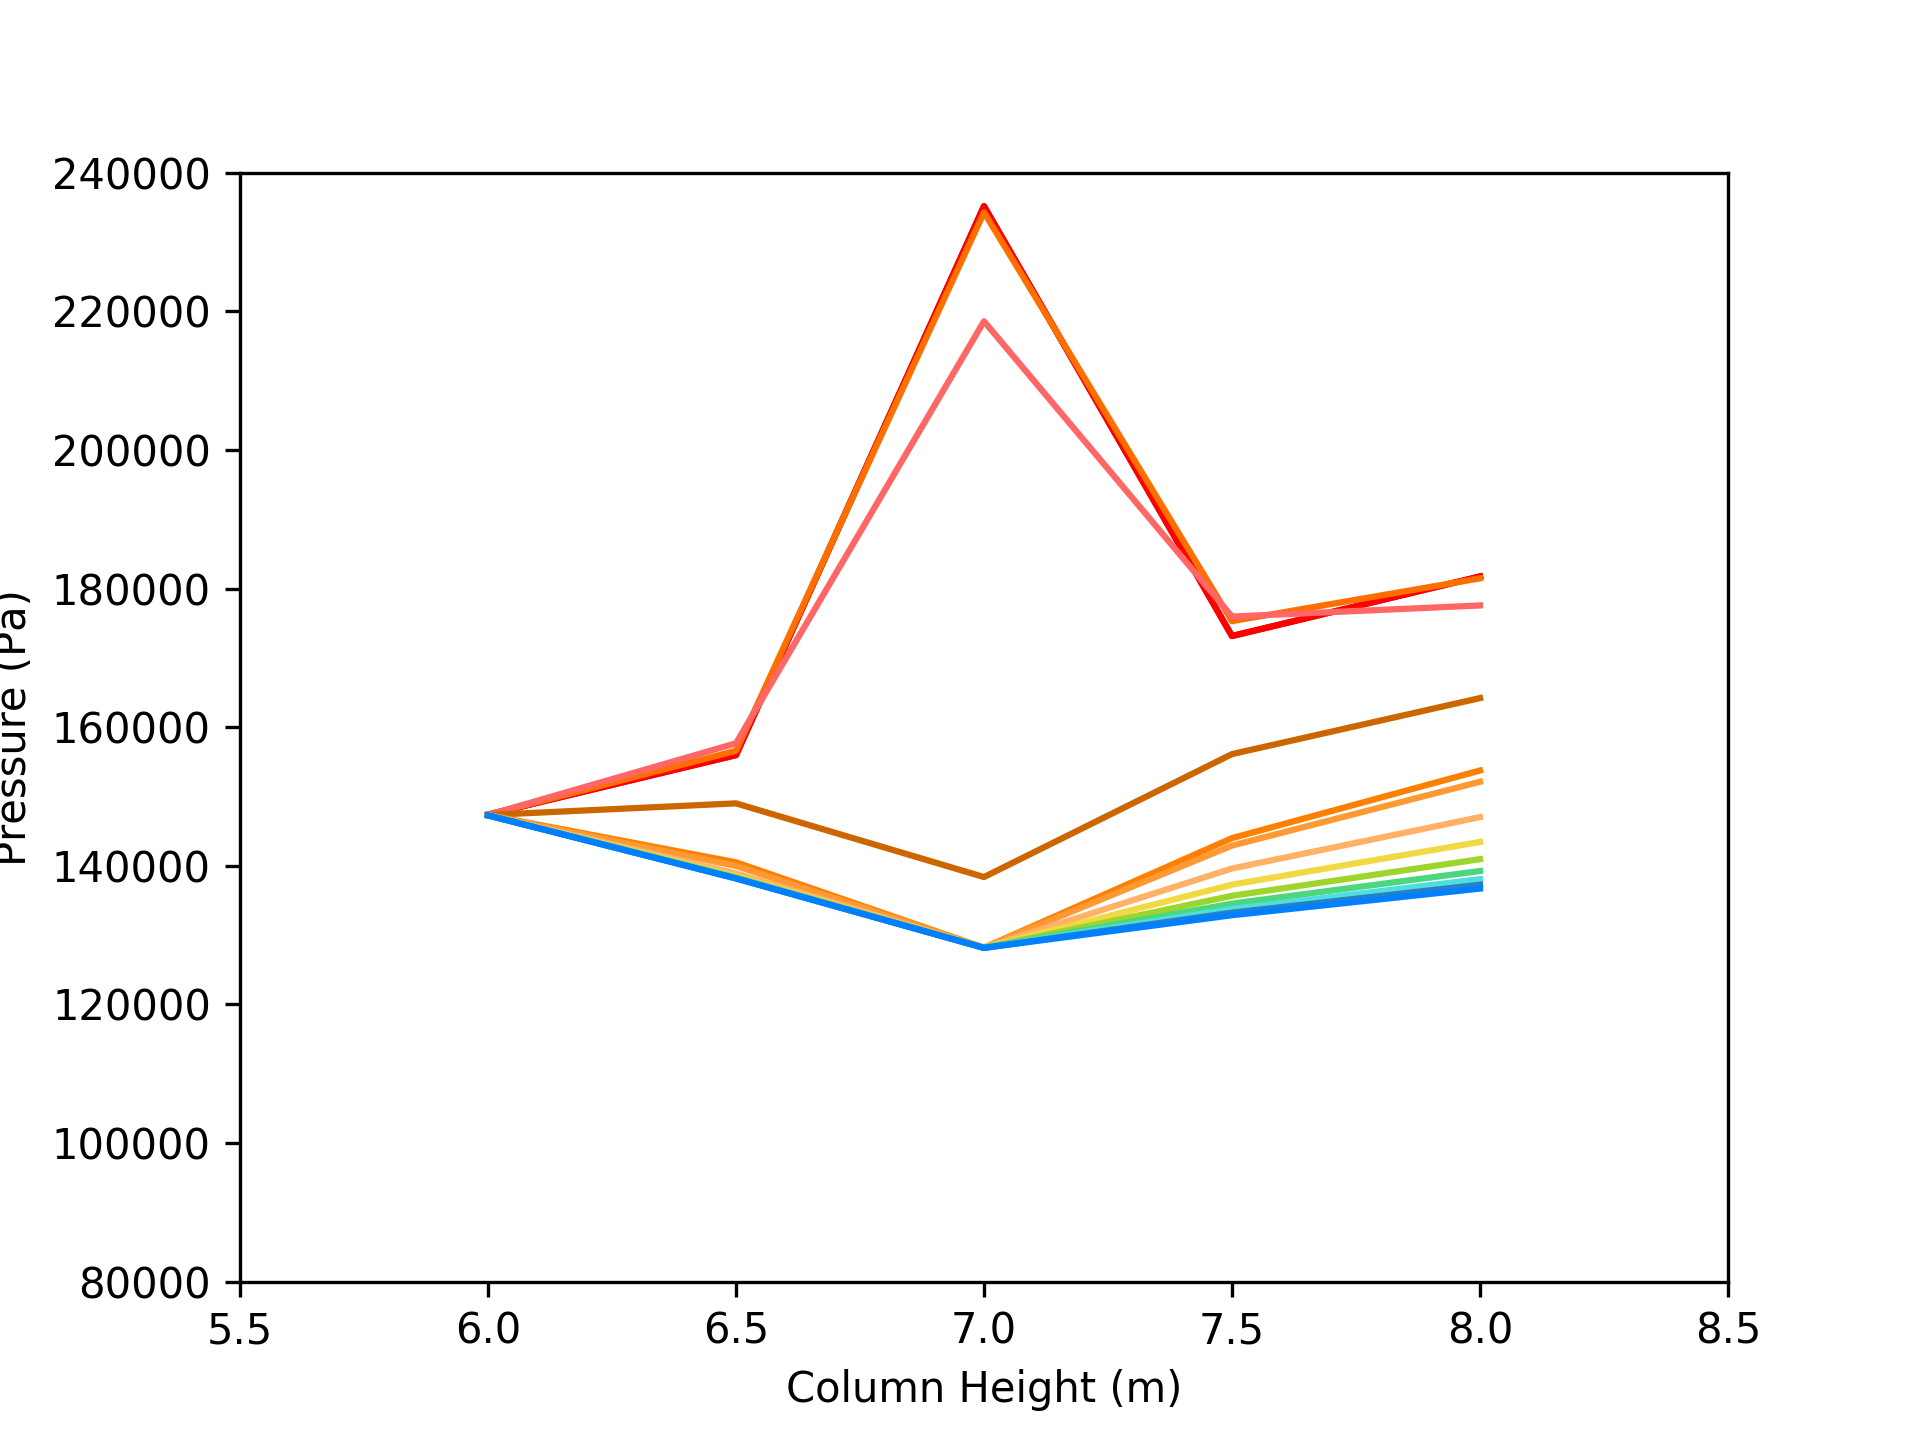
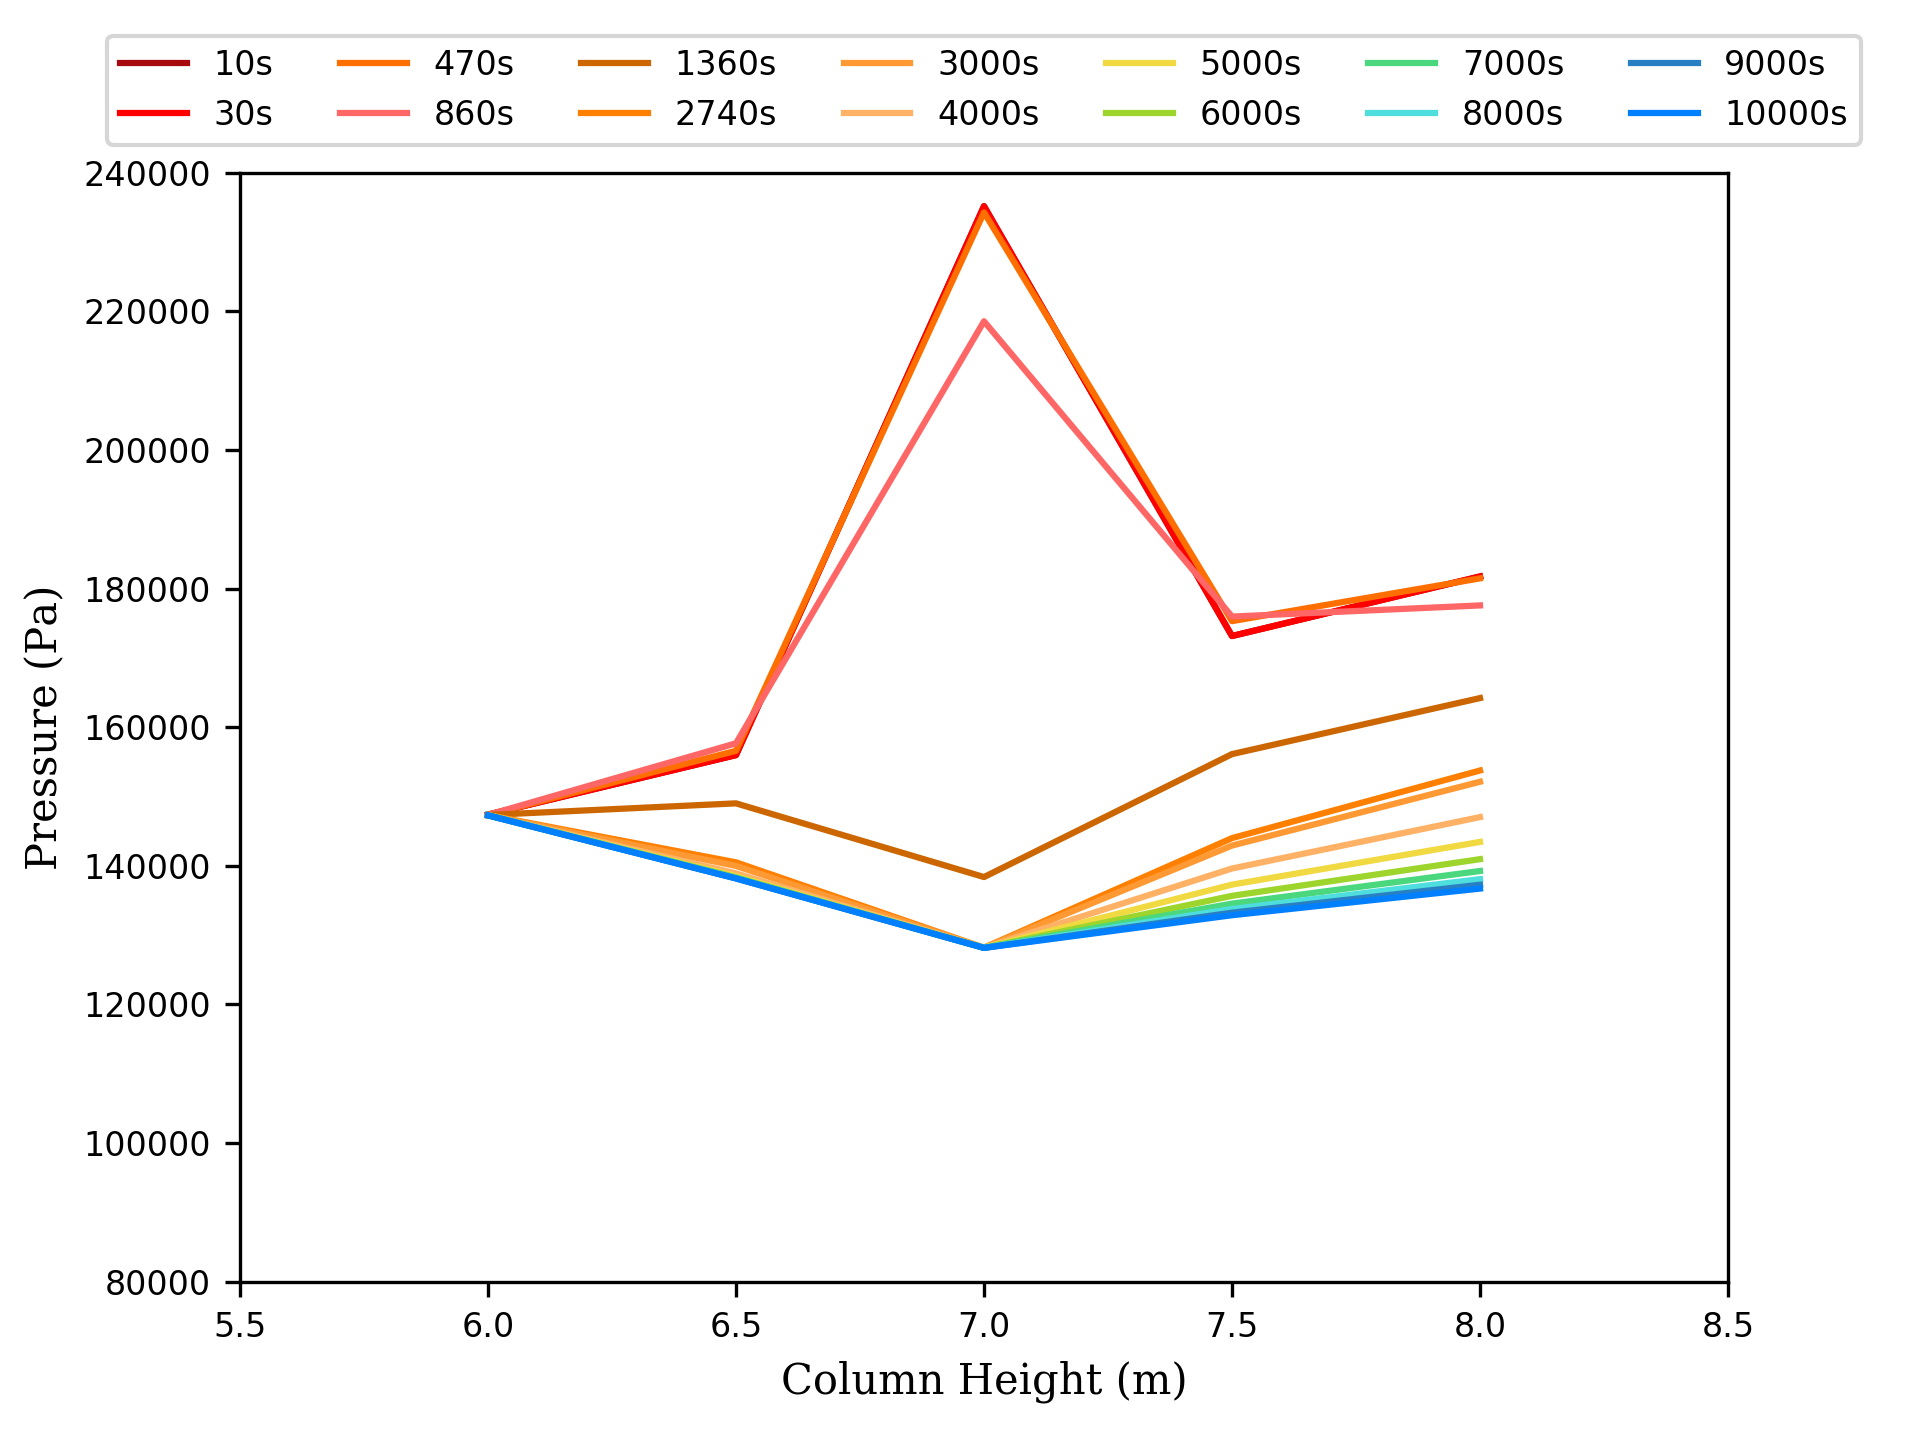
PressurePlotFunctionV2

diff --git a/PostProcessing/Plotting.py b/PostProcessing/Plotting.py
@@ -42,20 +42,28 @@ def plotPressureProfile(inputFile,outputFile):
               '#2880C3',\
               '#0080FF']
 
+    font = {'family': 'serif',
+            'weight': 'normal',
+            'size': 10,
+            }
+
     # Loop on time series
     for i in range(0,len(time)):
         y = dataframe.iloc[i,1:6]
-        timeLabel = str(time[i])+'s'
-        plt.plot(x,y,c=colors[i],label=timeLabel)
+        timeLabel = '{:.0f}s'.format(round(time[i],0))
+        plt.plot(x,y,c=colors[i],label = timeLabel)
         print(i)
 
     plt.xlim((5.5,8.5))
     plt.ylim((80000,240000))
-    plt.xlabel('Column Height (m)')
-    plt.ylabel('Pressure (Pa)')
+    plt.xlabel('Column Height (m)', fontdict = font)
+    plt.ylabel('Pressure (Pa)', fontdict = font)
+    plt.xticks(fontsize = 8)
+    plt.yticks(fontsize = 8)
+    plt.legend(loc = 'lower center',bbox_to_anchor=(0.5, 1.01),ncol=7,fontsize = 8)
     plt.savefig('./'+outputFile+'.png',dpi=300)
 
-    return fig, ax, im
+    return fig, ax
 
 def plotResult(output,outputFile,outType = 0):
     fig, ax = plt.subplots()
